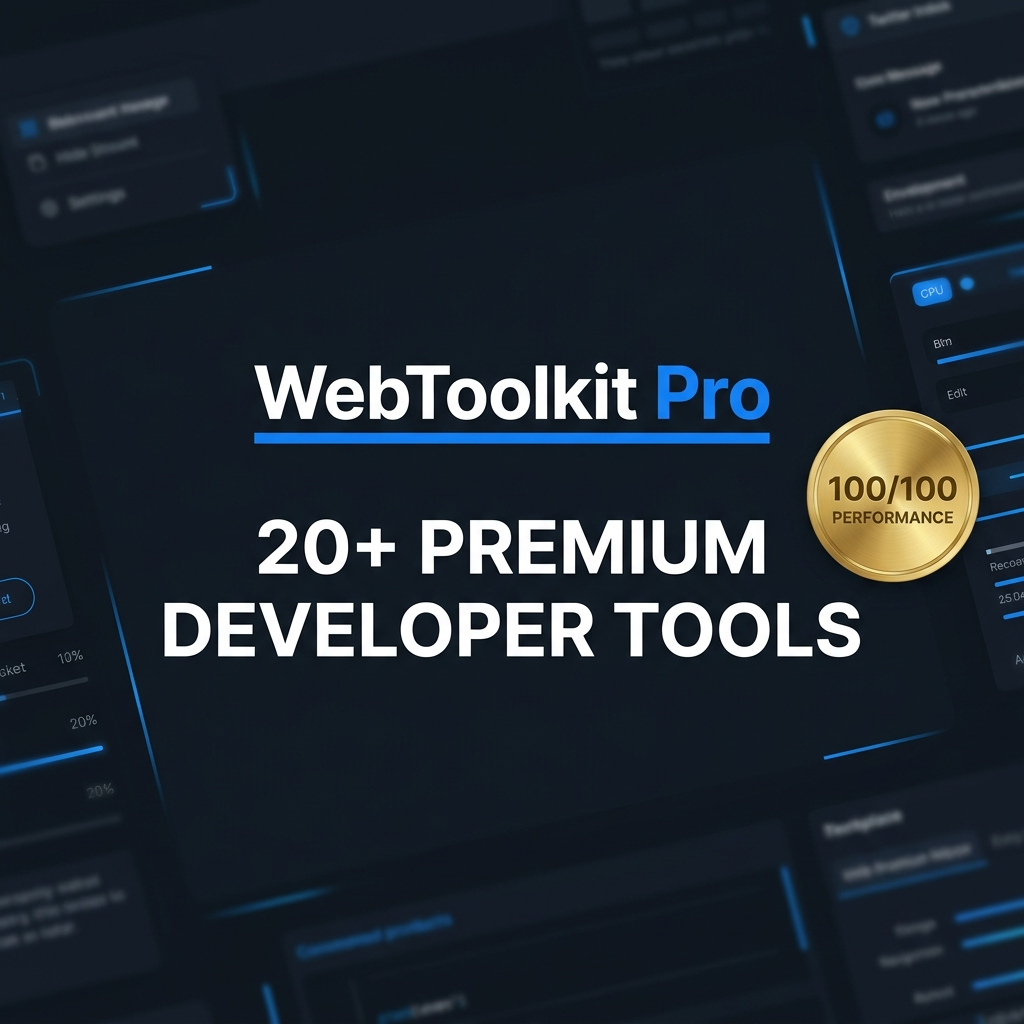
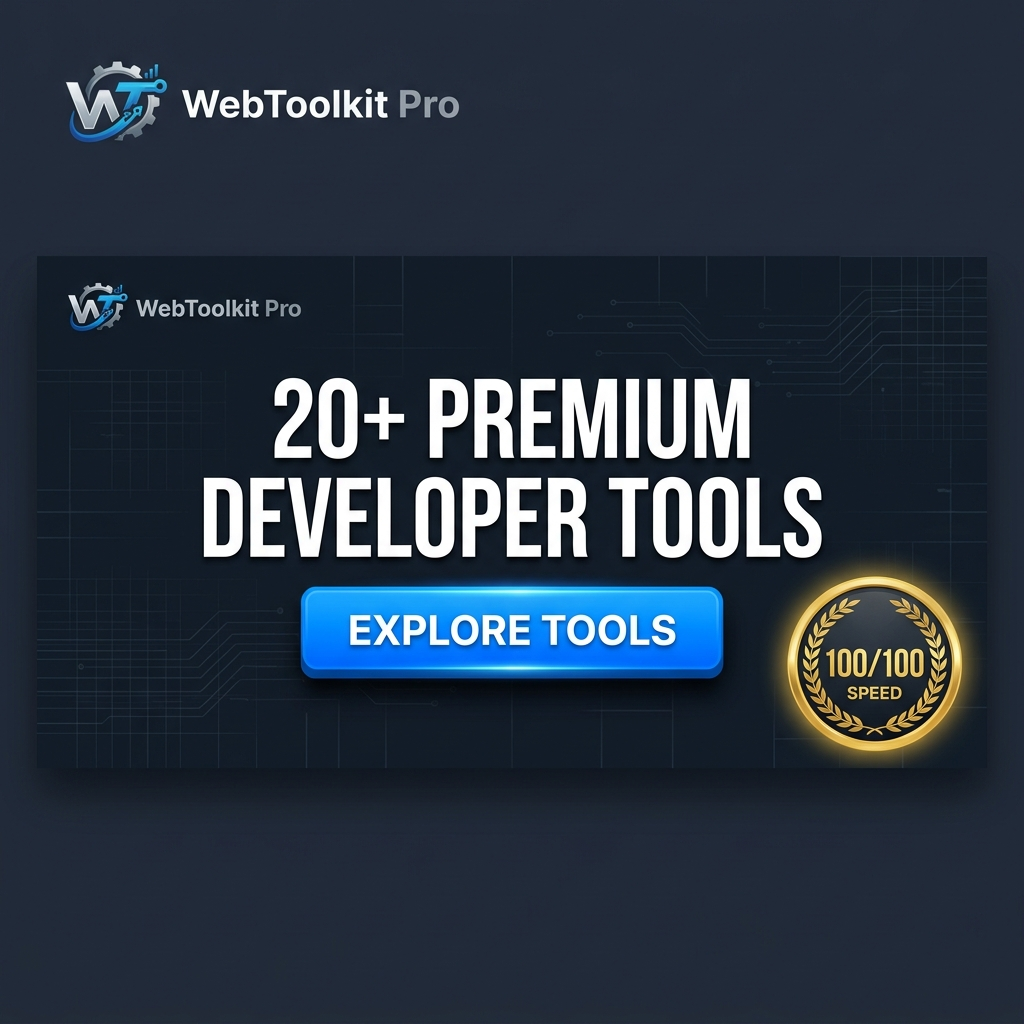
SEO: Upgrade to 1200x630 OG image with CTA and implement Breadcrumb Schema

diff --git a/app/layout.tsx b/app/layout.tsx
@@ -100,6 +100,29 @@ export default function RootLayout({ children }: RootLayoutProps) {
           dangerouslySetInnerHTML={{
             __html: JSON.stringify({
               '@context': 'https://schema.org',
+              '@type': 'BreadcrumbList',
+              'itemListElement': [
+                {
+                  '@type': 'ListItem',
+                  'position': 1,
+                  'name': 'Home',
+                  'item': 'https://wtkpro.site'
+                },
+                {
+                  '@type': 'ListItem',
+                  'position': 2,
+                  'name': 'Tools',
+                  'item': 'https://wtkpro.site/tools'
+                }
+              ]
+            }),
+          }}
+        />
+        <script
+          type="application/ld+json"
+          dangerouslySetInnerHTML={{
+            __html: JSON.stringify({
+              '@context': 'https://schema.org',
               '@type': 'Organization',
               'name': 'WebToolkit Pro',
               'url': 'https://wtkpro.site',